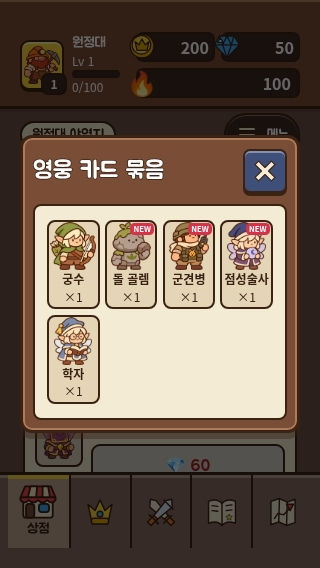
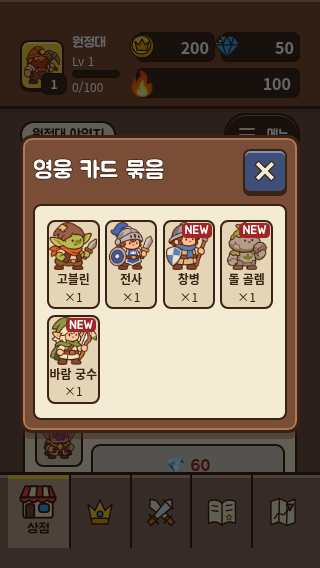
PR-F 보상 이름 줄바꿈·작은 배지 가독성 보완
Claude-Session: https://claude.ai/code/session_01TtVcSoY665DmsK6h3dcafN

diff --git a/e2e/details-v2.spec.ts b/e2e/details-v2.spec.ts
@@ -13,6 +13,6 @@ for(const width of [320,360,393,412])test(`PR-F ${width}px: shop, codex, campaig
 test('PR-F real purchase/claim, disabled state, scroll and short Android safe-area',async({page})=>{
  await page.setViewportSize({width:320,height:568});await page.emulateMedia({reducedMotion:'reduce'});await open(page);
  await page.addStyleTag({content:'.lobby-v2{--lobby-safe-top:24px;--lobby-safe-bottom:20px;--lobby-safe-left:8px;--lobby-safe-right:8px}'});
- await page.locator('.lobby-nav [data-tab="shop"]').click();await page.getByTestId('shop-buy-pack-basic').click();await expect(page.getByTestId('grant-dialog')).toBeVisible();await fits(page,'[data-testid="grant-dialog"]');await shot(page,'grant-short-320');await page.getByTestId('grant-dialog-close').click();await expect(page.getByTestId('lobby-gold')).toContainText('200');
+ await page.locator('.lobby-nav [data-tab="shop"]').click();await page.getByTestId('shop-buy-pack-basic').click();await expect(page.getByTestId('grant-dialog')).toBeVisible();await fits(page,'[data-testid="grant-dialog"]');for(const badge of await page.getByTestId('grant-dialog').locator('.go-card-new').all())expect(await badge.evaluate(e=>parseFloat(getComputedStyle(e).fontSize))).toBeGreaterThanOrEqual(12);await shot(page,'grant-short-320');await page.getByTestId('grant-dialog-close').click();await expect(page.getByTestId('lobby-gold')).toContainText('200');
  await page.locator('.lobby-nav [data-tab="heroes"]').click();await page.locator('.hero-card[data-hero="miner"]').click();const popup=page.getByTestId('hero-detail');await fits(page,'[data-testid="hero-detail"]');const b=(await popup.boundingBox())!;expect(b.y+b.height).toBeLessThanOrEqual(548);await page.getByTestId('hero-levelup').scrollIntoViewIfNeeded();await shot(page,'detail-short-320');await page.keyboard.press('Escape');await expect(popup).toBeHidden();
 });

diff --git a/src/ui/lobby/detailsV2.css b/src/ui/lobby/detailsV2.css
@@ -58,3 +58,6 @@
 .lobby-v2 :is(.lobby-shop,.lobby-codex,.lobby-locked,.lobby-popup-v2) .btn:disabled { background:var(--rtd-disabled); color:var(--rtd-danger-ink); box-shadow:0 2px var(--rtd-outline); opacity:1; filter:none; }
 .lobby-v2 :is(.lobby-shop,.lobby-codex,.lobby-locked,.lobby-popup-v2) .btn:active:not(:disabled) { transform:scale(.95); filter:brightness(.96); }
 @media(prefers-reduced-motion:reduce) { .lobby-v2 .lobby-popup-v2[open] { animation:none; } .lobby-v2 :is(.lobby-shop,.lobby-codex,.lobby-locked,.lobby-popup-v2) .btn { transition:none; } .lobby-v2 :is(.lobby-shop,.lobby-codex,.lobby-locked,.lobby-popup-v2) .btn:active { transform:none; } }
+.lobby-v2 .lobby-popup-v2 .grant-name { white-space:normal; overflow:visible; text-overflow:clip; overflow-wrap:anywhere; }
+.lobby-v2 .lobby-popup-v2 .go-chip { background:#E4D5B7; box-shadow:none; border:1px solid #9C8266; }
+.lobby-v2 .lobby-popup-v2 .go-card-new { background:var(--rtd-danger-ink); color:white; font:12px/1.2 var(--rtd-title-font); }
